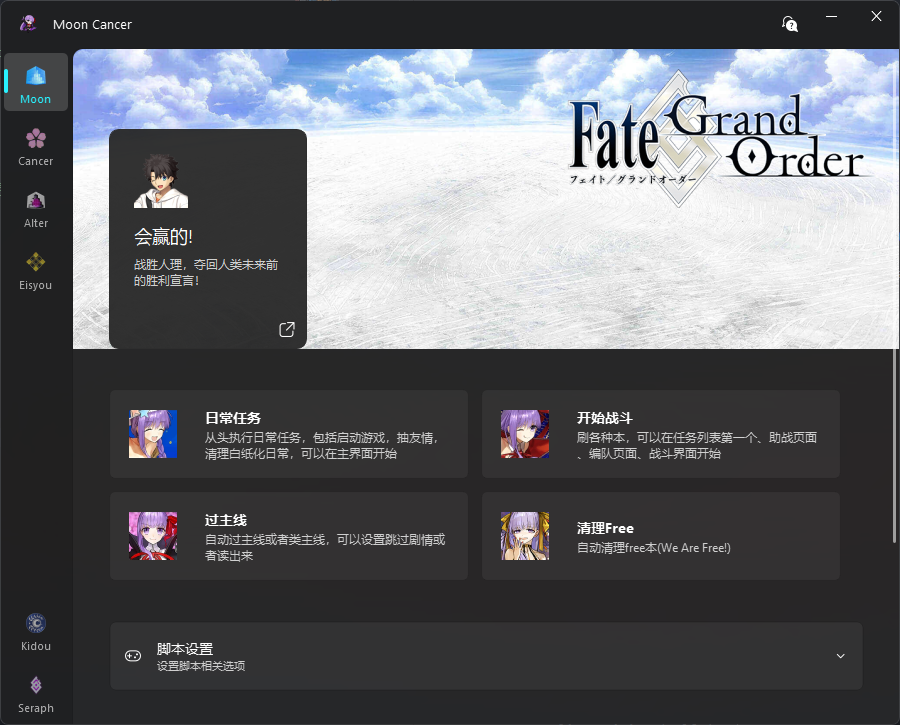
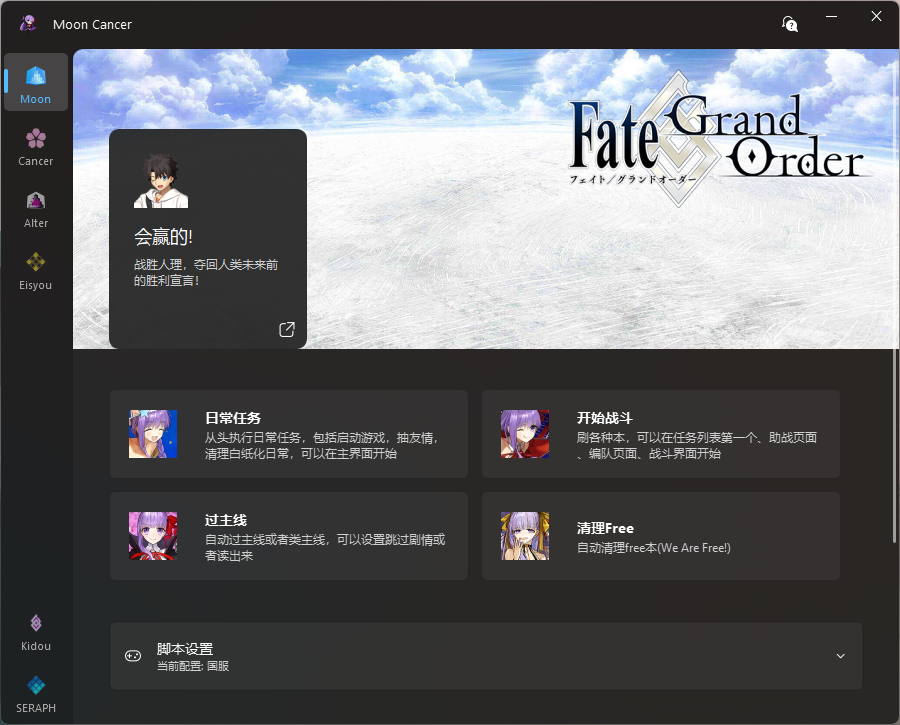
v2.3.5

diff --git a/src/content/posts/MoonCancer1.md b/src/content/posts/MoonCancer1.md
@@ -13,7 +13,7 @@ draft: false
 
 ### 日常任务
 
-整个流程包括打开模拟器(需要设置模拟器路径)，启动游戏，抽每日免费友情池(可关闭)，完成每日三次白纸化(设置中的本)。可以在主界面或者只运行了模拟器开始。每天可以直接点一下就下线，长草期也不麻烦，轻松攒石头<br>
+整个流程包括打开模拟器，启动游戏，抽每日免费友情池(可关闭)，完成每日三次白纸化或冠位战(设置中的本)，`默认使用1号编队`，使用前请设置好编队。也可以在主界面或者只运行了模拟器开始。每天可以直接点一下就下线，长草期也不麻烦，轻松攒石头<br>
 
 ### 开始战斗
 

diff --git a/src/content/posts/MoonCancer.md b/src/content/posts/MoonCancer.md
@@ -13,6 +13,10 @@ draft: false
 [Cancer界面说明](../mooncancer2)<br>
 [Alter界面说明](../mooncancer3)<br>
 [Eisyou界面说明](../mooncancer4)<br>
+## 2025年10月8日v2.3.5
+1.更新部分UI，主页脚本设置下方显示当前配置；更改任务消息框，显示芙芙跑动画<br>
+2.日常任务默认使用1号编队，避免日常用错编队（更新后记得修改编队）<br>
+3.优化代码，预防部分错误
 ## 2025年10月2日v2.3.4
 1.修复启动时更新会点退出，修复启动模拟器会出错<br>
 2.修复暗色主题显示错误<br>
